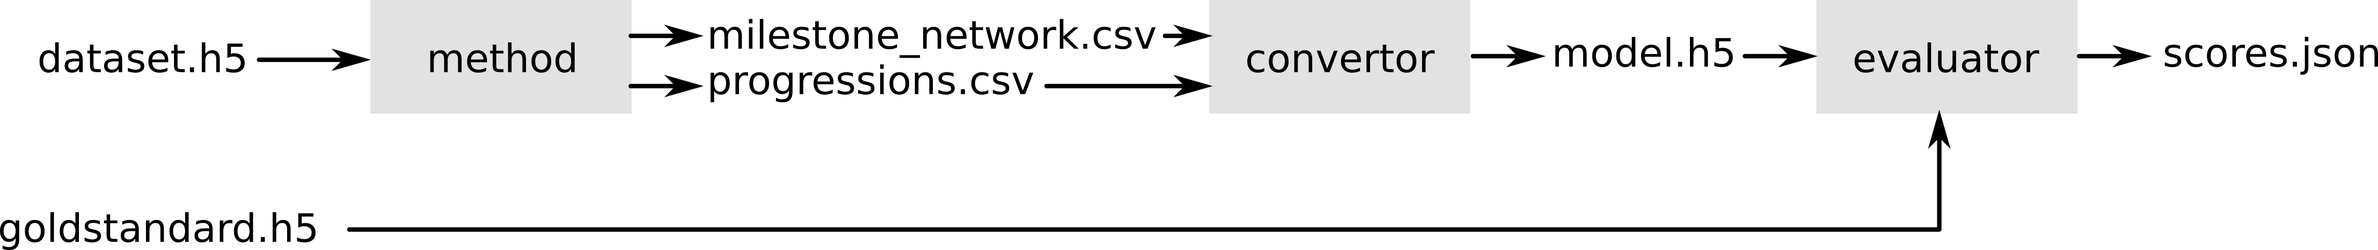
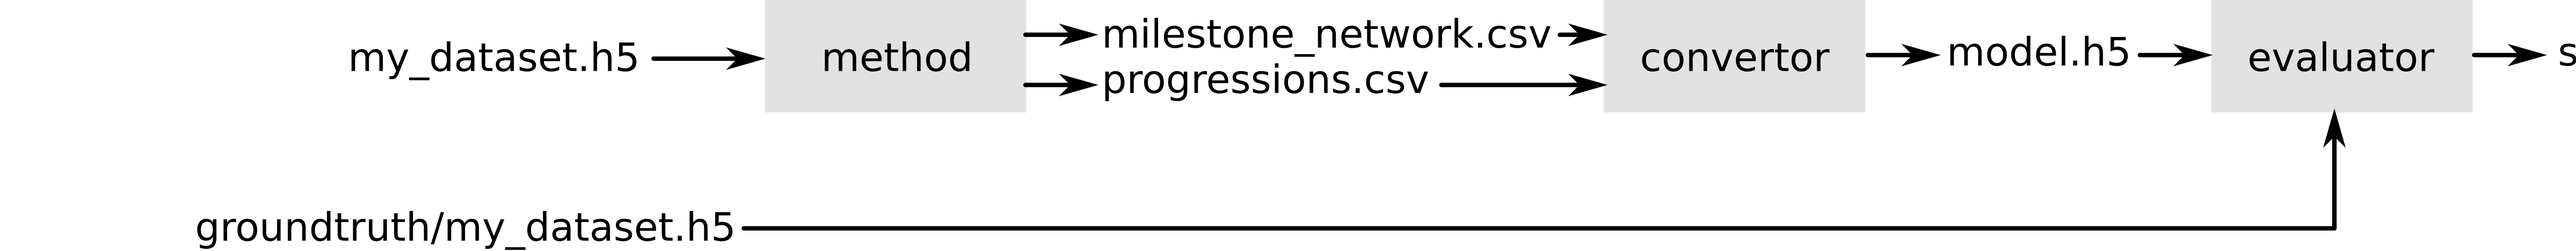
update description

diff --git a/docs/description.md b/docs/description.md
@@ -139,7 +139,7 @@ containers. An example of this is provided in
 additional docker containers that are distributed through docker hub: a
 convertor to convert the output to the format used by the
 [dynverse](https://dynverse.org) R packages, and an evaluator that reads
-in the output file together with the *goldstandard.h5* file to produce
+in the output file together with the ground truth HDF5 file to produce
 scores.
 
 ![](img/containers.png)
@@ -150,11 +150,10 @@ scores.
 
 <div id="ref-Saelens_Cannoodt_Todorov_Saeys_2019">
 
-Wouter Saelens\*, Robrecht Cannoodt\*, Helena Todorov, and Yvan Saeys.
+Saelens, Wouter, Robrecht Cannoodt, Helena Todorov, and Yvan Saeys.
 2019. “A Comparison of Single-Cell Trajectory Inference Methods.”
 *Nature Biotechnology* 37 (5): 547.
 <https://doi.org/10.1038/s41587-019-0071-9>.
-\* Equal contribution
 
 </div>
 
